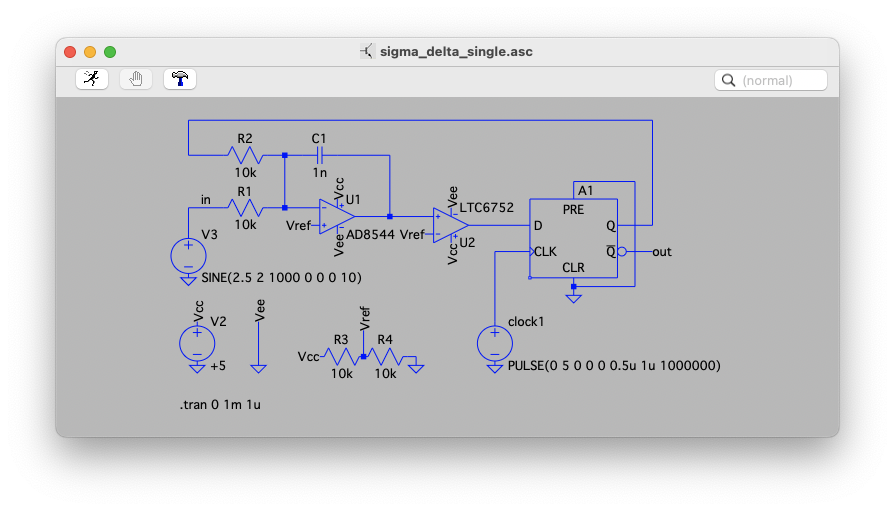
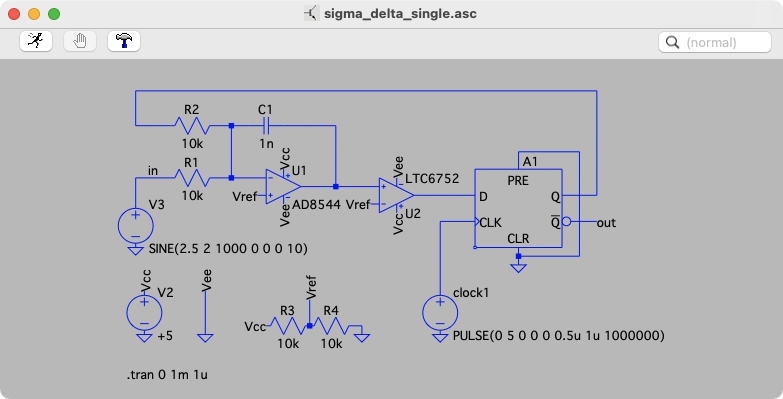
README and it's image update

diff --git a/README.md b/README.md
@@ -13,7 +13,7 @@ Dual and single supply simulation files are available.
 
 ### Single supply
 ![sigma_delta_sch_single](https://github.com/teddokano/sigma-delta_modulation_sim/blob/main/readme_img/sch_single.png)
-![sigma_delta_waveform_single](https://github.com/teddokano/sigma-delta_modulation_sim/blob/main/readme_img/waveform_signle.png)
+![sigma_delta_waveform_single](https://github.com/teddokano/sigma-delta_modulation_sim/blob/main/readme_img/waveform_single.png)
 
 # References
 - [Delta-Sigma ADC](https://www.allaboutcircuits.com/textbook/digital/chpt-13/delta-sigma-adc/) 
